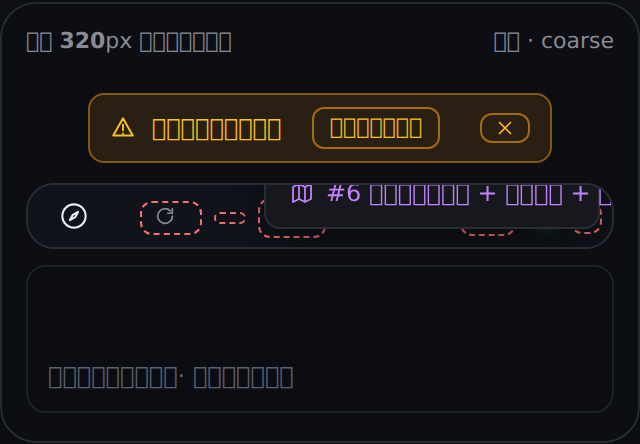
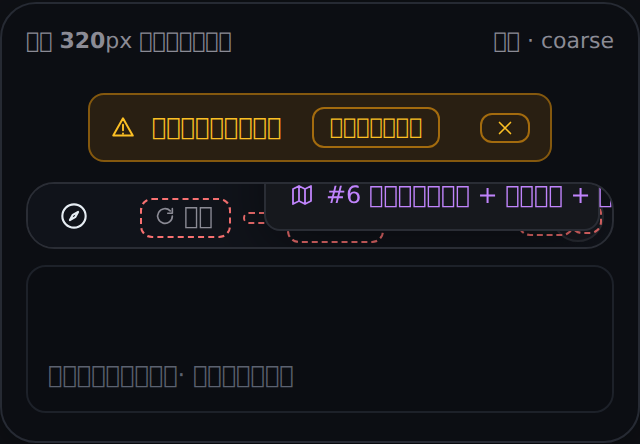
prototype(#5): 按维护者拍板切默认档（不钉住 + 边缘箭头 + 点开规则），并修两处页面自坏
拍板落进原型：
· ① 钉住区 = 不钉（左端品牌段跟别段一起滚）→ 默认 pinMode=off；钉住那档仍在形状开关里可对比
· ② 滑到头 = 小箭头（到哪头显哪头，能点着往回走）→ 默认 afford=arrows
· ③ 点开规则 = 再点一下收起 / 点空白收起 / 点开那一下只收菜单不冒泡（本就在纯模块里，走查定论已标注）
· ④ 窄屏单行高与 44px 靶位仍待定 → 页面顶部新增「已拍板 / 仍待定」卡

顺带修两处真坏（都是这一轮才暴露的）：
· h() 只收 Node，字符串子节点（箭头字形）会抛 appendChild 非 Node —— 现在字符串自动转文本节点
· renderItem 在「字收光」那一档拿 null 当子节点（h('span',{class:'dsws-folded'},[null])) —— 现在用 labelSpan()

不钉之后的量数变化：滚动窗 272 / 内容 568 → 溢出 296px（原 224）；弹层只按锚点会越出右缘 160px（原 117）。
页面自检 10/10 PASS，412px 真机视口无横向溢出。

diff --git a/deck/research/prototype-5-narrow-scrollbar/narrow-scrollbar-PROTOTYPE.html b/deck/research/prototype-5-narrow-scrollbar/narrow-scrollbar-PROTOTYPE.html
@@ -200,6 +200,16 @@ code{background:#151922;padding:1px 4px;border-radius:4px;font-size:11px}
   <p class="lede">要回答的一件事：<b>393px 竖屏上，这条横条怎么滚、钉不钉左边、点开一个菜单算不算点得中，同时仍要推进「顺手」。</b>
   「顺手」在这里只能靠摸：左边手机框里那一条是<b>按一套状态模型真跑</b>的，右边面板每次操作都把全部相关状态摊开（改过的格子会亮一下）。</p>
 
+  <div class="card" id="decision-card">
+    <h2>已拍板（维护者 2026-10-12）</h2>
+    <table class="state">
+      <tr><th>① 钉住区</th><td><b>不钉住</b> —— 左端品牌段跟别段一起滚（页内形状开关默认已切到这一档）</td></tr>
+      <tr><th>② 滑到头提示</th><td><b>小箭头</b> —— 到哪头就显哪头那颗箭头，能点着往回走（默认已切到「边缘箭头」）</td></tr>
+      <tr><th>③ 点开规则</th><td><b>再点一下收起 + 点空白收起；点开那一下只收菜单、不顺手开右栏</b></td></tr>
+      <tr><th>仍待定</th><td>可点面积要不要提到 44px；窄屏这一条要不要从 22px 放到 26px</td></tr>
+    </table>
+  </div>
+
   <div class="card">
     <h2>① 摆件：393px 竖屏里那条横条</h2>
     <div class="cols">
@@ -362,8 +372,8 @@ function initialState() {
   return {
     viewW: 393,
     pointer: 'coarse',        // 'coarse' 触屏 | 'fine' 鼠标
-    pinMode: 'pin',
-    afford: 'fade',
+    pinMode: 'off',        // 拍板①：不钉住（左端品牌段跟别段一起滚）
+    afford: 'arrows',      // 拍板②：滑到头给小箭头
     density: 'current',
     hitTest: true,
     scroller: { scrollLeft: 0, clientW: 361, scrollW: 361 },
@@ -454,7 +464,10 @@ if (typeof window !== 'undefined') window.CAPMODEL = APP
       else if (k.slice(0, 2) === 'on') el.addEventListener(k.slice(2), v)
       else el.setAttribute(k, v === true ? '' : v)
     }
-    ;(kids || []).forEach(function (c) { if (c) el.appendChild(c) })
+    ;(kids || []).forEach(function (c) {
+      if (c === null || c === undefined || c === false) return
+      el.appendChild((c instanceof Node) ? c : document.createTextNode(String(c)))
+    })
     return el
   }
   const ICONS = {
@@ -585,8 +598,8 @@ if (typeof window !== 'undefined') window.CAPMODEL = APP
     }
     if (st.afford === 'scrollbar') lane.appendChild(h('div', { class: 'scrollbar', 'data-sb': '1' }, [h('div', { class: 'thumb', 'data-sbthumb': '1' })]))
     if (st.afford === 'arrows') {
-      lane.appendChild(h('button', { class: 'edge-arrow left', 'data-arrow': 'left', onclick: function (e) { e.stopPropagation(); dispatch({ type: 'scrollBy', dx: -120 }) } }, ['‹']))
-      lane.appendChild(h('button', { class: 'edge-arrow right', 'data-arrow': 'right', onclick: function (e) { e.stopPropagation(); dispatch({ type: 'scrollBy', dx: 120 }) } }, ['›']))
+      lane.appendChild(h('button', { class: 'edge-arrow left', 'data-arrow': 'left', title: '往回滚', onclick: function (e) { e.stopPropagation(); dispatch({ type: 'scrollBy', dx: -120 }) } }, ['‹']))
+      lane.appendChild(h('button', { class: 'edge-arrow right', 'data-arrow': 'right', title: '继续滚', onclick: function (e) { e.stopPropagation(); dispatch({ type: 'scrollBy', dx: 120 }) } }, ['›']))
     }
     // 胶囊那一层：点开右栏与吸附
     lane.addEventListener('click', function (e) {
@@ -603,24 +616,24 @@ if (typeof window !== 'undefined') window.CAPMODEL = APP
     const spec = M.CAP_ITEMS.filter(function (x) { return x.p === p })[0]
     if (!spec) return
     const folded = (words[p] === '' || words[p] === undefined)
-    const hidden = function (n) { return h('span', { class: 'dsws-folded' }, [n]) }   // 收起来的段：整块 display:none，但位置留着
+    const labelSpan = function (txt) { return h('span', { class: folded ? 'dsws-folded' : null, text: txt }) }   // 收起来的段：整块 display:none，载荷（图标/数字）留着
     const anchorOf = function (id, node) { return (st.pinMode === 'off' && id === 'brand') ? segAnchor(id, node) : segAnchor(id, node) }
-    if (p === 2) return host.appendChild(segAnchor('refresh', h('button', { class: 'dsws-timebtn', title: TIP.refresh }, [svg('refresh', 11), folded ? hidden(null) : h('span', { text: '更新' })])))
+    if (p === 2) return host.appendChild(segAnchor('refresh', h('button', { class: 'dsws-timebtn', title: TIP.refresh }, [svg('refresh', 11), labelSpan('更新')])))
     if (p === 3) return host.appendChild(h('span', { class: 'dsws-timebtn', title: TIP.refresh, text: words[3] || '' }))
-    if (p === 4) return host.appendChild(segAnchor('env', h('span', { class: 'dsws-seg', style: 'color:var(--ok)' }, [svg('check', 14), folded ? hidden(null) : h('span', { text: '环境' })])))
+    if (p === 4) return host.appendChild(segAnchor('env', h('span', { class: 'dsws-seg', style: 'color:var(--ok)' }, [svg('check', 14), labelSpan('环境')])))
     if (p === 5) return host.appendChild(h('span', { class: 'dsws-num', text: '5/9' }))
     if (p === 6) return host.appendChild(h('span', { class: 'dsws-timebtn', text: words[6] || '' }))
     if (p === 12) return host.appendChild(segAnchor('serial', h('span', { class: 'dsws-seg', style: 'color:#c084fc', title: TIP.fixate }, [svg('note', 12), h('span', { text: '沉淀' })])))
     // 9 可接 / 10 故障：悬停开菜单（鼠标），触屏下由「点开」开（segNode 里那颗按钮本身没有点击动作时也开）
     if (p === 9) {
-      const n = h('span', { class: 'dsws-seg', style: 'color:#4ade80;display:inline-flex;align-items:center;gap:4px' }, [svg('target', 12, '#4ade80'), folded ? hidden(null) : h('span', { text: '可接' }), h('span', { class: 'dsws-num', text: '2' })])
+      const n = h('span', { class: 'dsws-seg', style: 'color:#4ade80;display:inline-flex;align-items:center;gap:4px' }, [svg('target', 12, '#4ade80'), labelSpan('可接'), h('span', { class: 'dsws-num', text: '2' })])
       n.addEventListener('click', function (e) { e.stopPropagation(); dispatch({ type: 'openMenu', menu: 'takeable' }) })
       n.addEventListener('mouseenter', function () { openOnHover('takeable') })
       n.addEventListener('mouseleave', scheduleClose)
       return host.appendChild(segAnchor('takeable', n))
     }
     if (p === 10) {
-      const n = h('span', { class: 'dsws-seg', style: 'color:#f87171;display:inline-flex;align-items:center;gap:4px' }, [svg('bug', 12, '#f87171'), folded ? hidden(null) : h('span', { text: '故障' }), h('span', { class: 'dsws-num', text: '2' })])
+      const n = h('span', { class: 'dsws-seg', style: 'color:#f87171;display:inline-flex;align-items:center;gap:4px' }, [svg('bug', 12, '#f87171'), labelSpan('故障'), h('span', { class: 'dsws-num', text: '2' })])
       n.addEventListener('click', function (e) { e.stopPropagation(); dispatch({ type: 'openMenu', menu: 'bug' }) })
       n.addEventListener('mouseenter', function () { openOnHover('bug') })
       n.addEventListener('mouseleave', scheduleClose)
@@ -629,7 +642,7 @@ if (typeof window !== 'undefined') window.CAPMODEL = APP
     if (p === 11) return host.appendChild(segNode(M.CAP_ITEMS.filter(function (x) { return x.p === 11 })[0], st, words[11]))
     if (p === 7) return host.appendChild(segNode(M.CAP_ITEMS.filter(function (x) { return x.p === 7 })[0], st, words[7]))
     if (p === 8) return host.appendChild(h('span', { class: 'dsws-split', 'data-seg': 'handoff', title: TIP.handoff }, [
-      h('button', { class: 'dsws-split-part', style: 'color:#58a6ff' }, [svg('handoff', 12), folded ? hidden(null) : h('span', { text: '交接' })]),
+      h('button', { class: 'dsws-split-part', style: 'color:#58a6ff' }, [svg('handoff', 12), labelSpan('交接')]),
       h('span', { class: 'dsws-split-div' }),
       h('button', { class: 'dsws-split-part', style: 'color:#8b8b95;opacity:.55' }, [svg('handoff', 12)]),
     ]))
@@ -884,7 +897,7 @@ if (typeof window !== 'undefined') window.CAPMODEL = APP
         { say: '分隔线换成渐隐（钉住区与滚动区之间那道「软边」）。', act: { type: 'setPin', value: 'pin-line' } },
         { say: '干脆什么都不加：只靠位置与底色区分。', act: { type: 'setPin', value: 'pin-fade' } },
         { say: '把这档推到宽视口：品牌整串字应该看得见（第 0 档）。', act: { type: 'setView', viewW: 600 } },
-        { ask: '钉住区：钉 / 不钉？分隔线、阴影、渐隐三者选哪个？', verdicts: ['钉住 + 分隔线', '钉住 + 渐隐', '钉住，什么都不加', '不钉（左端一起滚）'] },
+        { ask: '钉住区：钉 / 不钉？分隔线、阴影、渐隐三者选哪个？', verdicts: ['不钉（左端一起滚）✓ 已定', '钉住 + 分隔线', '钉住 + 渐隐', '钉住，什么都不加'] },
       ],
     },
     {
@@ -894,7 +907,7 @@ if (typeof window !== 'undefined') window.CAPMODEL = APP
         { say: '换成细滚动条：能看出「还剩多少没滚」，但只有 3px 高，触屏摸不到。', act: { type: 'setAfford', value: 'scrollbar' } },
         { say: '换成边缘箭头：给一个能点的目标（26px，仍然不到 44px —— 这是要维护者拍的一条）。', act: { type: 'setAfford', value: 'arrows' } },
         { say: '回左端看另一头。', act: { type: 'scrollTo', where: 'left' } },
-        { ask: '两端提示选哪种？点按下限要不要按 44px 走？', verdicts: ['两端渐隐', '细滚动条', '边缘箭头', '不给提示', '按 44px 提命中区（视觉不变）', '接受现状（目标更小）'] },
+        { ask: '两端提示选哪种？点按下限要不要按 44px 走？', verdicts: ['边缘箭头✓ 已定', '两端渐隐', '细滚动条', '不给提示', '按 44px 提命中区（视觉不变，待定）', '接受现状（目标更小，待定）'] },
       ],
     },
     {
@@ -906,7 +919,7 @@ if (typeof window !== 'undefined') window.CAPMODEL = APP
         { say: '激活胶囊那一下：第 1 下只是「武装」，第 2 下才开右栏。', act: { type: 'tapCapsule' } },
         { say: '再点一下，右栏才开。', act: { type: 'tapCapsule' } },
         { say: '行高放松一档，看菜单行是否够点。', act: { type: 'setDensity', value: 'roomy' }, then: { type: 'openMenu', menu: 'bug', force: true } },
-        { ask: '点开的规则（再点收起 / 点外收起 / 只收菜单不冒泡）与弹层定位？', verdicts: ['点开再点收起', '点外任意处收起', '第一下只收菜单（不冒泡）', '夹取定位（不越界）', '菜单行按 40px 高'] },
+        { ask: '点开的规则（再点收起 / 点外收起 / 只收菜单不冒泡）与弹层定位？', verdicts: ['点开再点收起 + 点外收起 + 第一下只收菜单 ✓ 已定', '夹取定位（不越界）✓ 已定', '菜单行按 40px 高（待定）'] },
       ],
     },
     {
@@ -917,7 +930,7 @@ if (typeof window !== 'undefined') window.CAPMODEL = APP
         { say: '点黄条上那个叉：一键收起整个功能区（黄条与横条一起没了，只剩一句 10px 灰字）。', act: { type: 'foldDeck' } },
         { say: '再展开回来。', act: { type: 'expandDeck' } },
         { say: '收到 320px：黄条折行、横条收到最后一档。', act: { type: 'setView', viewW: 320 }, then: { type: 'scrollTo', where: 'mid' } },
-        { ask: '窄屏下高度/字号/间距、以及黄条+收起态的排法？', verdicts: ['单行不变（12px / 22px）', '放松一档（26px）', '黄条与横条间隔 6px', '收起态保持一句 10px 灰字'] },
+        { ask: '窄屏下高度/字号/间距、以及黄条+收起态的排法？', verdicts: ['单行不变（12px / 22px，待定）', '放松一档（26px，待定）', '黄条与横条间隔 6px', '收起态保持一句 10px 灰字'] },
       ],
     },
   ]

diff --git a/deck/research/prototype-5-narrow-scrollbar/README.md b/deck/research/prototype-5-narrow-scrollbar/README.md
@@ -41,8 +41,8 @@ cd deck/research/prototype-5-narrow-scrollbar/verify && NODE_PATH=/tmp/pwproto/n
 | --- | --- | --- |
 | 横条容器（`dock`） | 367px | = 列宽 367（`393 − 2×12`）− 0，`min-width:0` 之后不再被内容撑宽 |
 | 滚动窗 / 内容 | 272px / 496px | 钉住区吃掉 49px，尾巴 30px |
-| 溢出 | 224px | 12 段字全展开时；阶梯收到第 17/17 档（收到底）后仍溢出，靠横滑 |
-| 触屏点按目标 | 11 个里 11 个 < 44px | 最小 16×6（时间串），最大 69×23；横条本体高 33px |
+| 溢出 | **296px** | 不钉之后左端也要滚（原来钉住时是 224px）；阶梯收到第 17/17 档（收到底）后仍溢出，靠横滑 |
+| 触屏点按目标 | 11 个里 11 个 < 44px | 最小 16×6（时间串），最大 84×25；横条本体高 33px |
 | 弹层（夹取） | 右缘超出 −7px（不越界） | 只按锚点那档：**越出横条右缘 117px** |
 | 弹层宽度 | 168px（可接菜单） | 窄屏下必须夹取，否则被视口切掉 |
 
@@ -56,3 +56,15 @@ cd deck/research/prototype-5-narrow-scrollbar/verify && NODE_PATH=/tmp/pwproto/n
 - 本票的取舍清单与进度写在票 [#5](https://github.com/SunsetRNE/dsh-github-resident/issues/5) 正文；
   落地那一张是 [#6](https://github.com/SunsetRNE/dsh-github-resident/issues/6)。
 - 已知边界：这里量的是「一条 12 段字的横条」，没有接插件运行时，也没有真机字体度量；窄屏最终值以真机复验为准。
+
+
+## 维护者已拍板（2026-10-12）
+
+| 问 | 定论 | 页内默认档 |
+| --- | --- | --- |
+| ① 钉住区 | **不钉住**（左端品牌段跟别段一起滚） | `不钉` |
+| ② 滑到头提示 | **小箭头**（到哪头显哪头，能点着往回走） | `边缘箭头` |
+| ③ 点开规则 | **再点一下收起 + 点空白收起；点开那一下只收菜单、不冒泡开右栏** | 已按此实现 |
+| ④ 窄屏单行高 | 仍待定：照现状 22px / 放松到 26px；可点面积是否提到 44px 也仍待定 | 照现状 |
+
+钉住那一问的两档在页面上都还留着（形状开关里），随时可以切回去对比。
